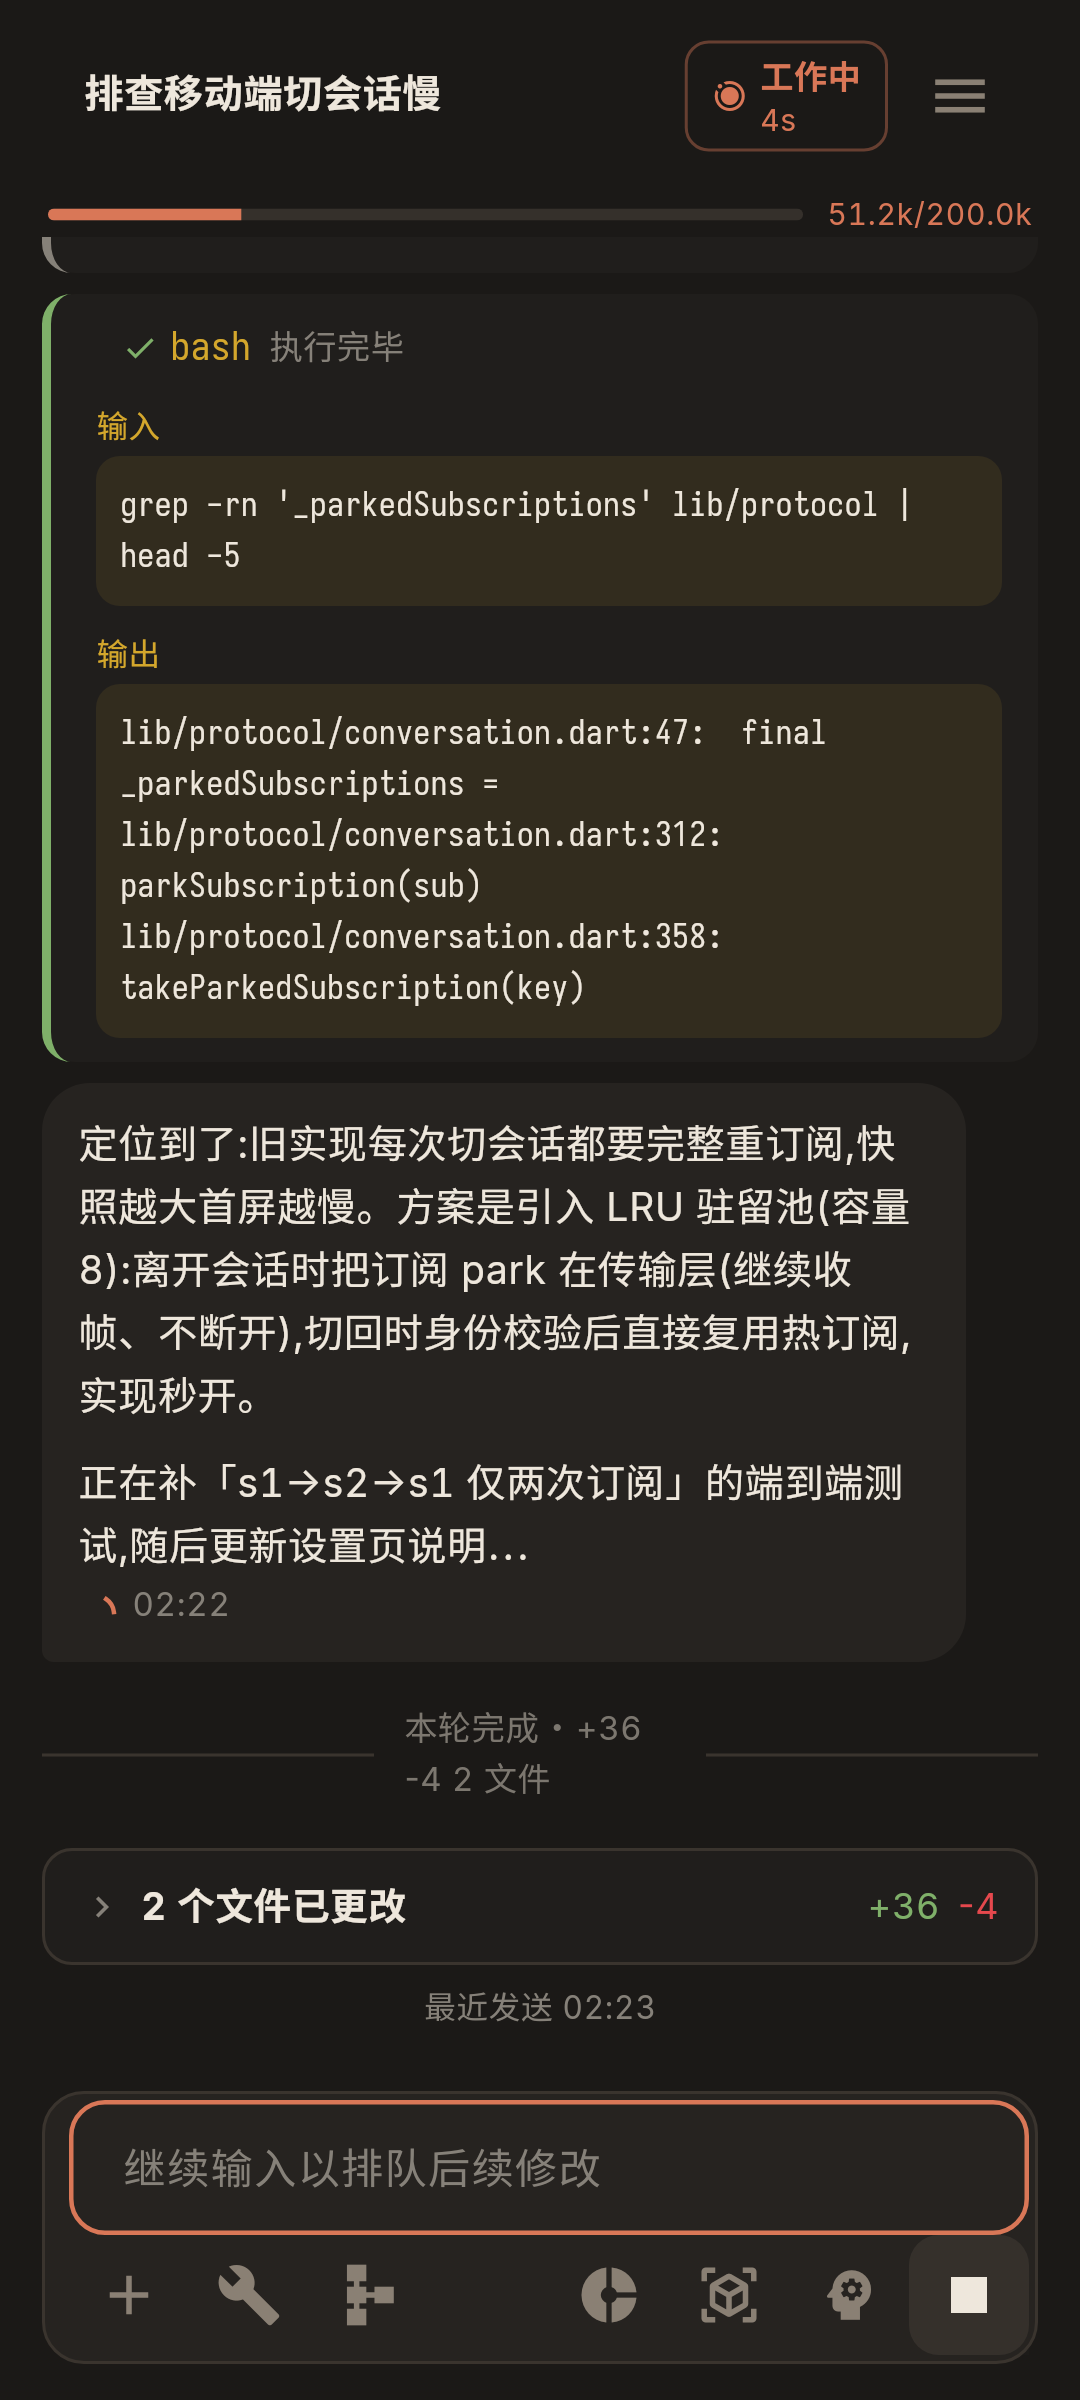
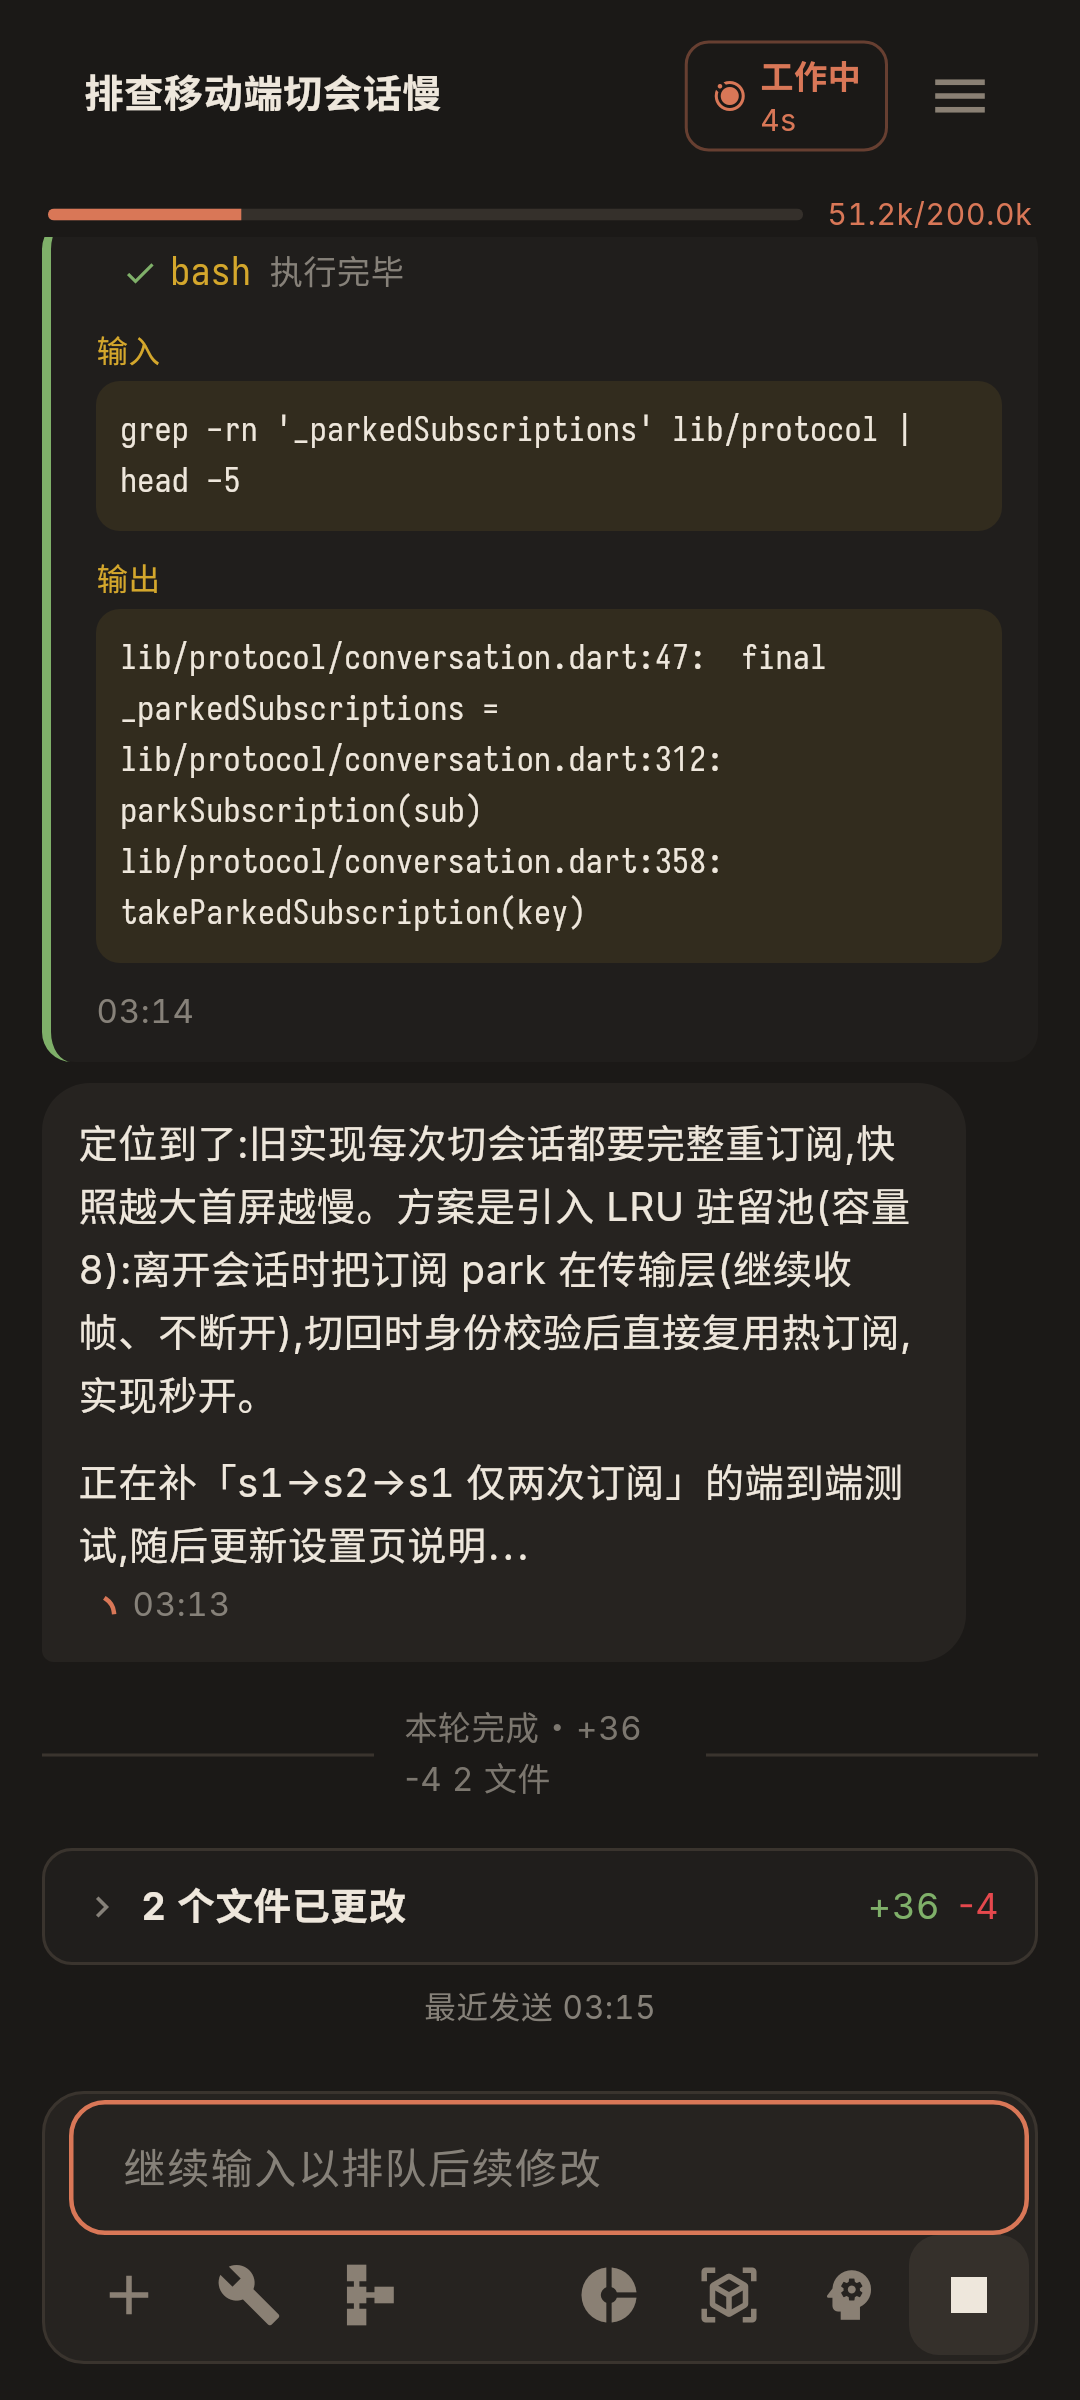
feat: tool call blocks get tail timestamp with running spinner
工具块尾部(内容区之后)新增行:运行中 = 转圈 + 本条调用时间戳,
完成后 = 仅时间戳;行无戳(历史)整行隐藏。与助手消息尾部一致
(用户裁定:放尾部,标题块的执行中/执行完毕状态文字保持不变)。
README 截图同步重生成

diff --git a/lib/ui/chat/msg_widgets.dart b/lib/ui/chat/msg_widgets.dart
@@ -1457,6 +1457,35 @@ class _ToolCallTileState extends State<_ToolCallTile> {
                     );
                   },
                 ),
+            // 尾部时间戳(用户裁定,与助手消息一致):运行中附转圈,
+            // 完成后仅时间;行无戳(历史)则整行隐藏。标题块的执行中/
+            // 执行完毕状态文字不受影响。
+            if (status == 'running' ||
+                status == 'inputStreaming' ||
+                status == 'pendingApproval' ||
+                _messageTimeLabel(_rowTsOf(row)).isNotEmpty)
+              Padding(
+                padding: const EdgeInsets.fromLTRB(12, 0, 12, 8),
+                child: Row(
+                  mainAxisSize: MainAxisSize.min,
+                  children: [
+                    if (status == 'running' ||
+                        status == 'inputStreaming' ||
+                        status == 'pendingApproval') ...[
+                      const SizedBox(
+                          width: 12,
+                          height: 12,
+                          child:
+                              CircularProgressIndicator(strokeWidth: 1.5)),
+                      const SizedBox(width: 6),
+                    ],
+                    Text(_messageTimeLabel(_rowTsOf(row)),
+                        style: TextStyle(
+                            fontSize: 11,
+                            color: EmberColors.of(context).textFaint)),
+                  ],
+                ),
+              ),
           ],
         ),
       ),

diff --git a/test/screenshot_capture_test.dart b/test/screenshot_capture_test.dart
@@ -147,6 +147,7 @@ final _chatRows = <Map<String, dynamic>>[
     'toolName': 'bash',
     'status': 'success',
     'inputText': "grep -rn '_parkedSubscriptions' lib/protocol | head -5",
+    'ts': _tsAgo(const Duration(seconds: 75)),
     'output': {
       'text': 'lib/protocol/conversation.dart:47:  final _parkedSubscriptions =\n'
           'lib/protocol/conversation.dart:312: parkSubscription(sub)\n'
